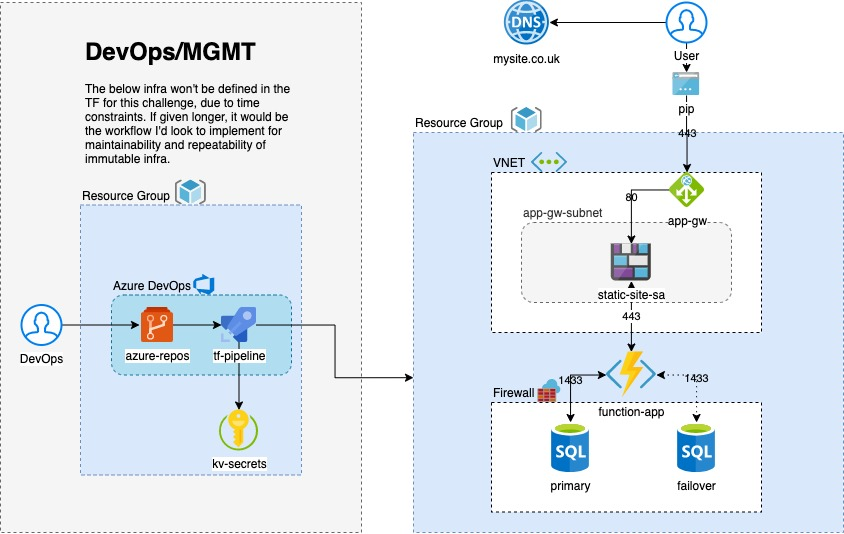
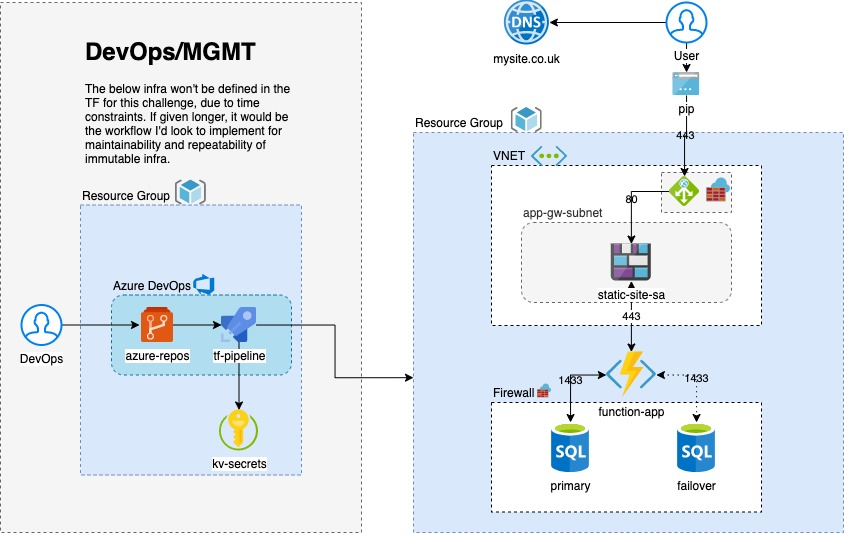
Refined docs

Changed region(s): [[0.5853, 0.2397, 0.9242, 0.4195], [0.5853, 0.5993, 0.9242, 0.6292], [0.6161, 0.6891, 0.6777, 0.7491]]

diff --git a/challenge-1/challenge-1-readme.md b/challenge-1/challenge-1-readme.md
@@ -17,7 +17,7 @@ Initial thoughts are produce an architecture diagram to guide implementation. Wa
 
 ### Web tier: either static site hosted in a Storage Account OR a Web App.
 
-  App gateway to enable custom domain for static site hosted on Azure Storage Account, SSL offloading, redirecting HTTP traffic to HTTPS (this could also be achieved with Azure CDN/DNS Zones).
+  App gateway to enable custom domain for static site hosted on Azure Storage Account, SSL offloading, redirecting HTTP traffic to HTTPS and built-in WAF to increase security posture.
 
   Azure Storage Accounts now allow static websites to be hosted as blobs. A lot of modern web applications are moving toward the Single-Page Application (SPA) paradigm, where most of the rendering is done via the browser, which means a smoother experience for the user and lower infra requirements. Static content (html, js, css) can be served from the storage account, which means cheaper run costs.
 
@@ -30,6 +30,8 @@ Initial thoughts are produce an architecture diagram to guide implementation. Wa
 ### Data tier: Azure SQL.
 
   Azure SQL PaaS will provide the basis for the data tier. Cheap and efficient means of storing structured data. Basic SKU's cost <£5 monthly. PaaS offering also eliminates the challenge of patching / maintenance.
+
+  For this MVP there will be a firewall that is open to trusted Azure services (to enable Function to interact with data tier). Though - in recognition that this isn't the strongest from a security perspective - there is an upgrade path to place the SQL Server instances in their own subnet and enable service endpoints for the Azure function.
 
 ## How to run
 
